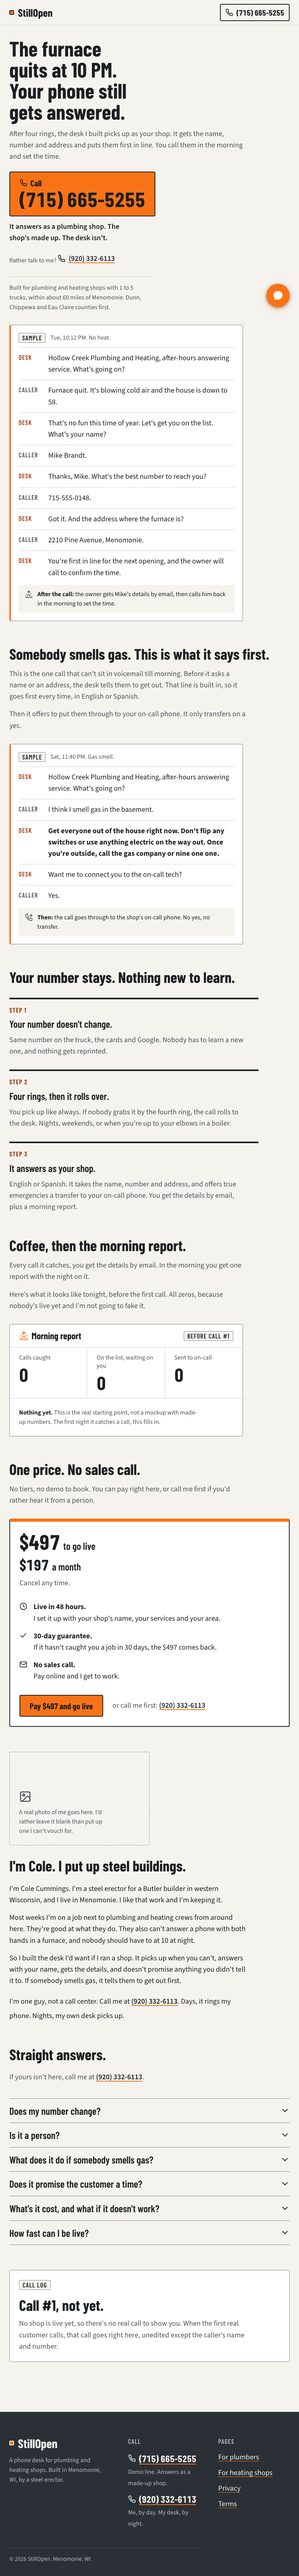
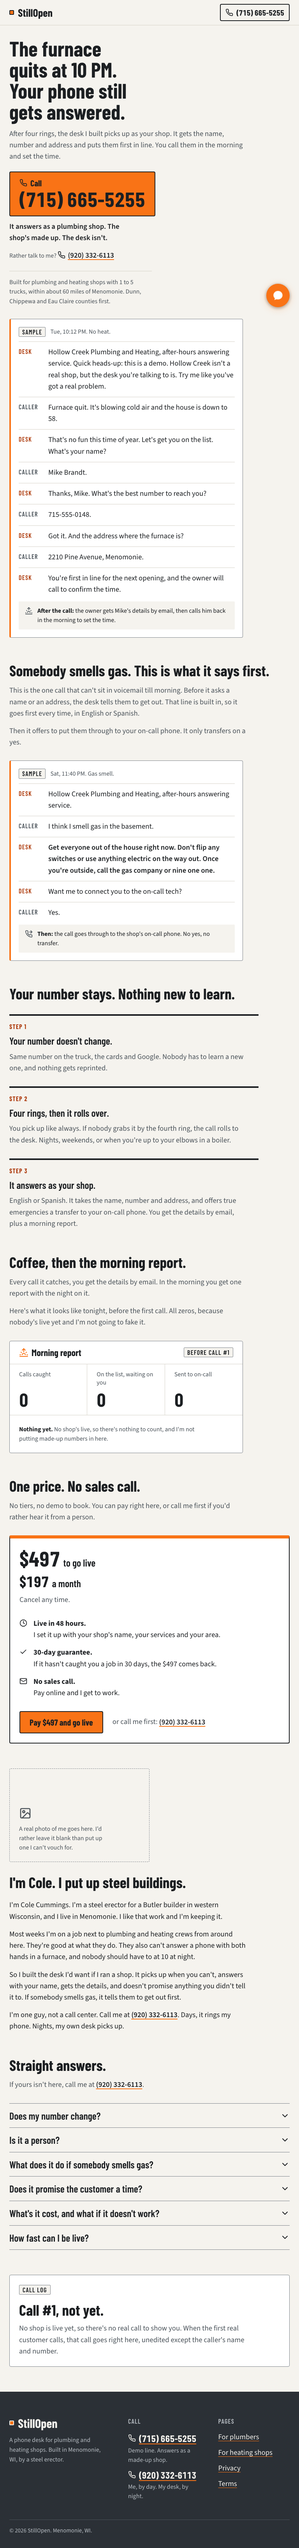
QA: trade pages, 404, homepage round 2

diff --git a/remodel-qa/pages-report.md b/remodel-qa/pages-report.md
@@ -1,0 +1,103 @@
+# QA report: trade pages, 404, homepage round 2
+
+Checked 2026-11-02 on branch remodel-2026-11 against http://127.0.0.1:8765/. Read only; no page or CSS was changed. Screenshots in this folder: `for-plumbers-*.png`, `for-hvac-*.png`, `404-*.png`, `index-*.png` at 375, 768, 1280 and 1440 (full page). I looked at every one, cut into sections so nothing got shrunk past reading.
+
+Foreman decisions not failed: the chatbot.js include stays, no founder photo, footer-legal runs full width.
+
+## Verdicts
+
+| Page | Result |
+|---|---|
+| /for-plumbers/ | FAIL (2 copy truths, 1 voice) |
+| /for-hvac/ | FAIL (3 copy truths, 1 voice) |
+| /404.html | FAIL (1 layout, 1 small) |
+| / (round 2) | FAIL (2 copy truths). All nine round 1 fixes landed. |
+
+## Failures, with the fix
+
+1. **Trade page transcripts don't use the demo greeting word for word.** Same failure round 1 caught on the homepage, now on the new pages. All four greet with "Hollow Creek Plumbing and Heating, after-hours answering service. What's going on?" The desk never says "What's going on?" after the name, and anyone who calls (715) 665-5255 hears the demo heads-up. Lines: `for-plumbers/index.html:170`, `:204`; `for-hvac/index.html:171`, `:205`.
+   **Fix:** on the hero transcript (plumbers 170, hvac 171) use the full greeting: "Hollow Creek Plumbing and Heating, after-hours answering service. Quick heads-up: this is a demo. Hollow Creek isn't a real shop, but the desk you're talking to is. Try me like you've got a real problem." On the second transcript (plumbers 204, hvac 205) cut it to "Hollow Creek Plumbing and Heating, after-hours answering service." with nothing added. That's what the homepage does now (index.html:183, :217).
+
+2. **The Spanish gas line is advertised, and the worker says not yet.** `~/Code/stillopen-worker/worker.js` line 33, right above `GAS_SAFETY_LINE_ES`: "Spanish wording needs a native speaker's read before it's advertised." The pages advertise it anyway:
+   - `index.html:207` "That line is built in, so it goes first every time, in English or Spanish."
+   - `for-hvac/index.html:195` same sentence.
+   - `for-hvac/index.html:315` and JSON-LD `:71` "Yes. It answers in English or Spanish, and the gas line goes first in both."
+   **Fix:** index 207 and hvac 195: end the sentence at "so it goes first every time." HVAC FAQ, visible and JSON-LD both: "Yes. It answers in English or Spanish." The general "English or Spanish" in Step 3 is a FACTS truth and stays. Put "in both" back once a native speaker has read the Spanish line and Cole says so.
+
+3. **Gas FAQ paraphrases the safety line and writes "911".** All three pages, visible and JSON-LD: "it tells them to get everyone out, not to flip any switches, and to call the gas company or 911 once they're outside." It drops "or use anything electric" and isn't the line. The brief says any gas line is word for word with "nine one one". Lines: `index.html:57`, `:348`; `for-plumbers/index.html:70`, `:310`; `for-hvac/index.html:68`, `:303`.
+   **Fix:** replace the first sentence of that answer, in the `<p>` and the JSON-LD `text` both, with: `Before anything else, it says: "Get everyone out of the house right now. Don't flip any switches or use anything electric on the way out. Once you're outside, call the gas company or nine one one."` Keep the rest ("That line is built in ... only transfers on a yes."). Rerun the FAQ match script after.
+
+4. **404 page jams into the footer.** Main content ends 8px above the steel band at 375, 768 and 1280 (measured: last element bottom to `.site-footer` top = 8px). Round 1 took the footer's top margin out, and `.lost` isn't a `.section`, so it never gets the bottom gap. Visible in `404-375.png`, `404-768.png`, `404-1280.png`.
+   **Fix:** `404.html:20` change `.lost { padding-top: var(--s7); padding-bottom: var(--s2); }` to `padding-bottom: var(--section-gap);`.
+
+5. **Voice, plumbers.** `for-plumbers/index.html:194` "and the first shop that answers usually gets the job." That's a claim with nothing behind it, said like a fact.
+   **Rewrite:** "That guy isn't leaving a voicemail. He's going down the list on his phone until somebody picks up, and I'd bet the first one that does gets the job."
+
+6. **Voice, HVAC hero.** `for-hvac/index.html:154` "No heat, it gets the name, number and address and puts them first in line. Gas smell, it tells them to get out before it asks anything else." Reads like shorthand on a form, not a guy talking.
+   **Rewrite:** "After four rings, the desk I built picks up as your shop. No heat? It gets the name, number and address and puts them first in line. Smell gas? It tells them to get out before it asks anything else. You get the details by email."
+
+7. **404 footer has no Home link.** Trade pages list Home first under Pages; the 404 (`404.html:120-125`) doesn't, and it's the one page where somebody's lost.
+   **Fix:** add `<li><a href="/">Home</a></li>` as the first item in that list.
+
+## Round 1 recheck (homepage)
+
+| Round 1 item | Now |
+|---|---|
+| 1. Chat widget | Kept, foreman decision. Not failed. |
+| 2. Morning report "fills in" | Fixed, index.html:277. |
+| 3. Demo greeting | Fixed, :183 full greeting, :217 first sentence only. |
+| 4. Footer legal rule | Fixed, `max-width: none`, runs full width at 768/1280/1440. |
+| 5. Double gap above footer | Fixed. Gap now 48 / 64 / 96px at 375 / 768 / 1280. |
+| 6. Report zeros at 768 | Fixed, all three zeros on one baseline in index-768.png. |
+| 7. Safety line weight | Fixed, 600. |
+| 8. Inline phone links | Fixed, `p .link-call { display: inline }`. |
+| 9. Footer notes double spaced | Fixed. |
+| Optional nit, meta description "gets the job on the books" | Still there, index.html:7. Still optional: "puts the job first in line". |
+
+## Passes, with evidence
+
+**Hard locks (all four pages and assets/site.css)**
+- Every hex in the files: #f5f3ee, #ffffff, #1c1f22, #4a5259, #d6d2c8, #7d838a, #f97316, #ea580c, #ad3a0a, #2b3036, #b8bec4. No rgb(), rgba(), hsl(). Orange is only #f97316, hover #ea580c, and #ad3a0a for small text (404 `.lost-code`, transcript Desk labels, step labels). PASS.
+- No gradient, backdrop-filter, blur, filter, box-shadow, text-shadow, Inter, purple or violet. PASS.
+- Icons: every `<use href>` id is a defined inline `<symbol>` with a Lucide path on every page, none missing, none unused. 404 adds arrow-right and construction. PASS.
+- No `<img>`, no background-image, no `_hf`, no cole-founder-portrait.jpg. No photos of people. PASS.
+
+**Copy truths**
+- "text" as a promise: none. Only hits are CSS properties, comments and the JSON-LD `"text"` key. PASS.
+- Arrival window or time promise: none. Every booking close is "You're first in line for the next opening, and the owner will call to confirm the time." word for word (index 191, plumbers 178 and 212, hvac 179). PASS.
+- Testimonials, reviews, invented stats: none. Numbers on the pages are price, 48 hours, 30 days, four rings, 1 to 5 trucks, 60 miles, honest zeros, and caller details inside labeled samples (555 numbers). PASS, except the "usually gets the job" line in failure 5.
+- Samples labeled: 2 transcripts and 2 "Sample" tags on each of index, plumbers, hvac. PASS.
+- Gas transcript line on hvac (207) and index (219) matches FACTS exactly with "nine one one", 600 weight; transfer offer "Want me to connect you to the on-call tech?" matches; transfer only after a yes. PASS. The FAQ paraphrase fails, see 3.
+- Price: $497 to go live, $197 a month, cancel any time, live in 48 hours, 30-day money back, pay online, no sales call. Same on all three selling pages. Trade pay links carry `?client_reference_id=for-plumbers` and `=for-hvac`. Stripe link answers 200. PASS.
+- "Call #1, not yet." present on index (371), plumbers (329), hvac (330). PASS.
+- HVAC hero line "It answers as a plumbing and heating shop, so tell it your furnace quit. The shop's made up. The desk isn't." is a variant of the FACTS line, but true to what the demo says. PASS.
+
+**Dashes**
+- U+2014 and U+2013, plus `&mdash;` `&ndash;` `&#8212;` `&#8211;`, across all four pages and site.css: zero hits. PASS.
+
+**Voice**
+- No seamless, leverage, solution, empower, unlock, streamline, elevate, robust, 24/7, standalone AI, effortless, hassle in visible copy on any page. Everything else reads like Cole. Only flags are 5 and 6.
+
+**Numbers**
+- `tel:+17156655255` and `tel:+19203326113` on every page at every width. PASS.
+- Demo number on the first screen at 375 (812 tall): header button, plus the big button at top 409 / bottom 515 on index, 436 / 542 on both trade pages, 416 / 522 on the 404. PASS.
+
+**FAQ JSON-LD vs visible text (scripted)**
+- index 6 / 6, plumbers 6 / 6, hvac 6 / 6, character for character, zero mismatches. 404 has no FAQ. PASS. Any copy fix to an FAQ answer (failures 2 and 3) has to land in both places.
+
+**Layout**
+- Horizontal overflow: 0px on all four pages at 375, 768, 1280, 1440. PASS.
+- 768: scripted check for intersecting text boxes (p, h1-h3, a, spans, summary, tags), FAQ closed and all open, on index, plumbers, hvac at 375, 768, 1280: zero overlaps. Nothing with overflow hidden is clipping. Open FAQ chevrons rotate clean. PASS (404 bottom gap is failure 4).
+- 1280 and 1440: two-column hero on all four pages, h1 and transcript tops aligned at 129px on index and both trade pages; second section is copy left, transcript right; steps three across; price is one card; content capped at 1200px and centered at 1440. Widest reading text inside main is 65ch at 1280 (`.hero-alt`). PASS.
+- Fixed chat bubble sits over the right end of a line at 375 and 768 (hero-who on the trade pages, the Home row arrow on the 404). Widget is a foreman keep, so noted, not failed.
+
+**Console and requests**
+- Console errors: none on any page at any width. Failed requests: none.
+
+**Links (curl and fetch against 127.0.0.1:8765)**
+- Every internal href and src on all four pages answers 200: `/`, `/app-icon.png`, `/assets/site.css`, `/for-plumbers/`, `/for-hvac/`, `/privacy.html`, `/terms.html`. 404's legacy redirect target `/demo/builder/` answers 200.
+- Anchors: same-page `#main`, `#how`, `#price`, `#faq` exist on each page that uses them; `/#how`, `/#price`, `/#founder`, `/#faq` (404 header, trade "Who built it" and "More about me") all exist on the homepage. PASS.
+
+## Side note, not a page failure
+
+"That line is built in, so it goes first every time" is backed by the local worker source (`GAS_SAFETY_LINE`, `gasOpen()`). Claude.md still lists the hard-coded gas rule as blocker 3 and says the last deploy was 2026-10-14, while the worker repo's latest commit (2026-11-02 23:17) talks about a live main. Somebody should confirm what's actually deployed before these pages ship.
